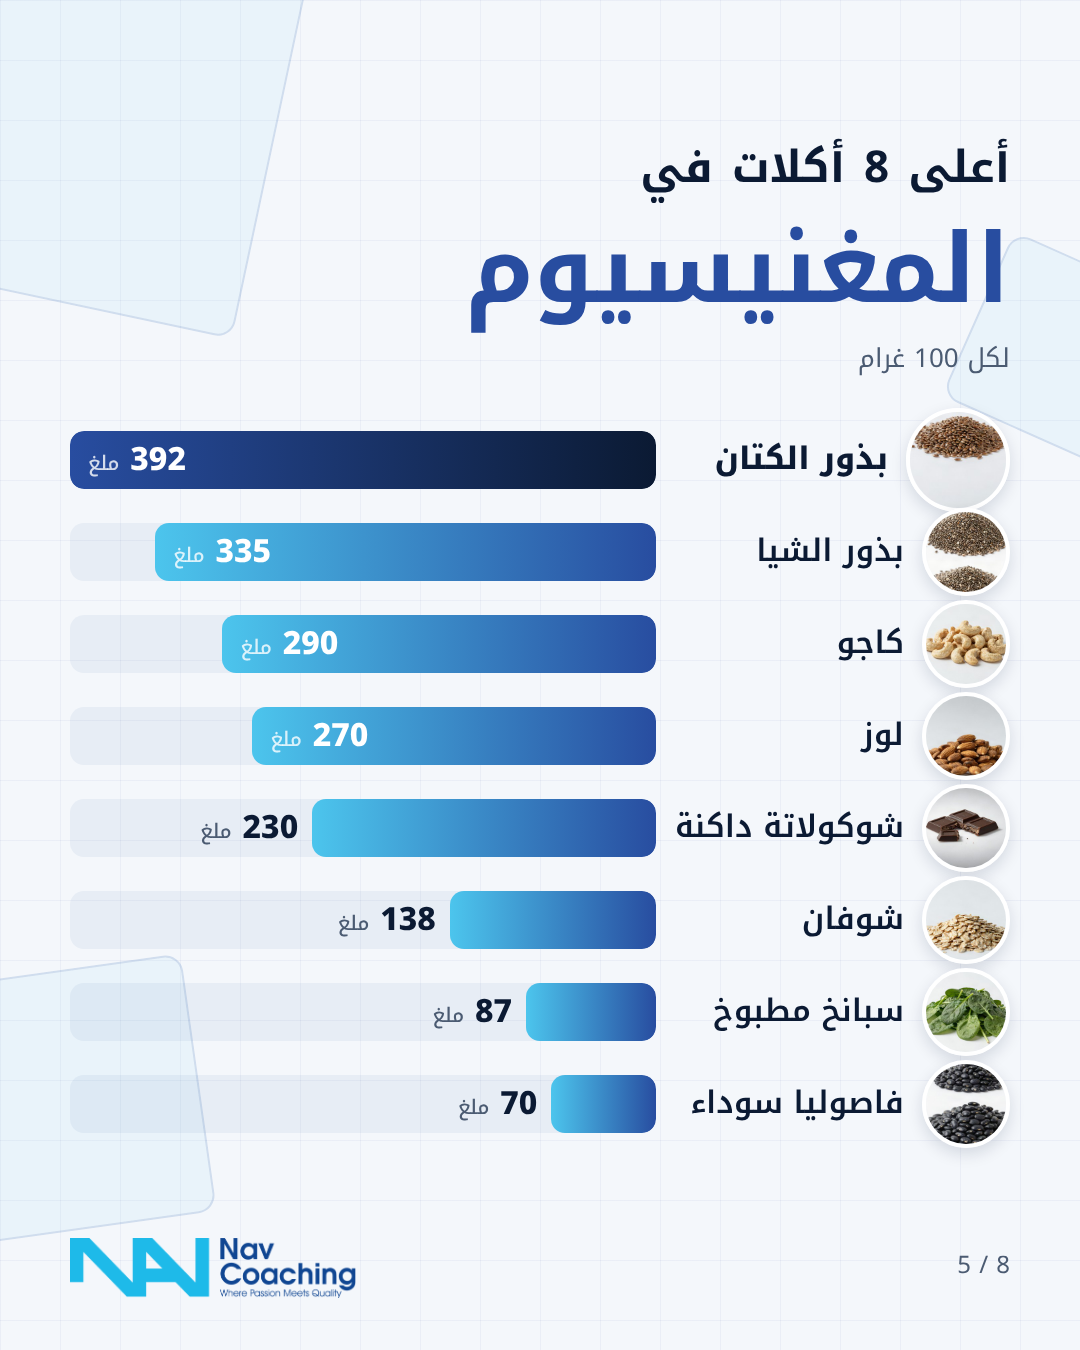
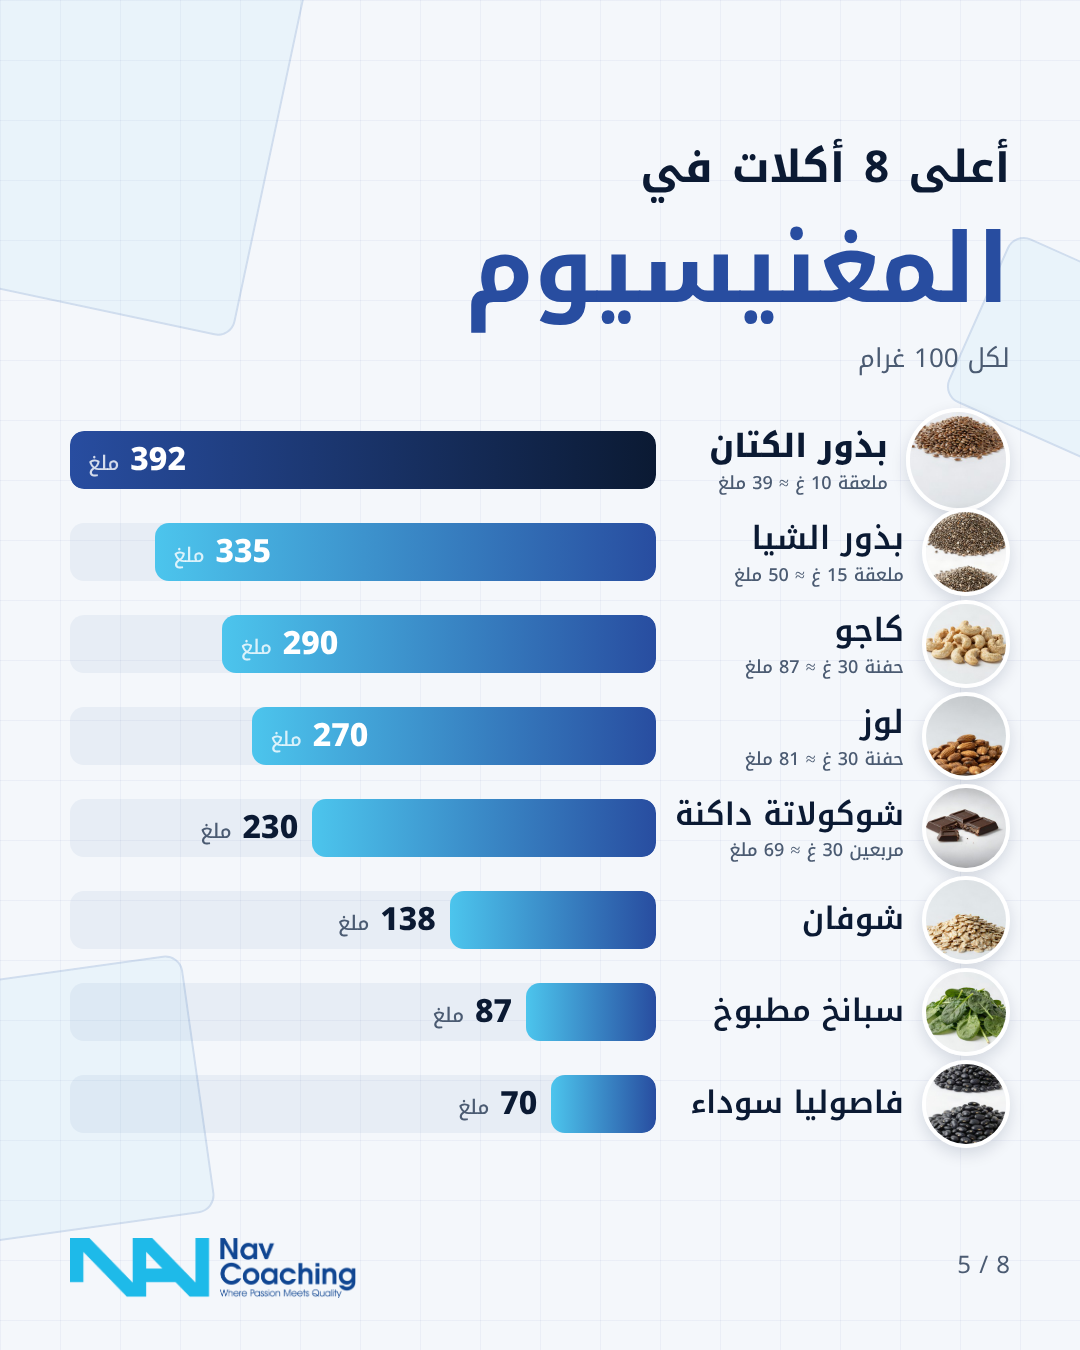
foods carousel: realistic serving lines for seeds, nuts, chocolate
Claude-Session: https://claude.ai/code/session_014K8VAaJoHdbEmLTmDkRNee

Changed region(s): [[0.6417, 0.3111, 0.8556, 0.4978], [0.6111, 0.5289, 0.8556, 0.6533], [0.7028, 0.4667, 0.7333, 0.4978]]

diff --git a/instagram/foods/slides.html b/instagram/foods/slides.html
@@ -27,21 +27,22 @@ h1 b{color:#284da0}
 .chips{display:flex;flex-wrap:wrap;gap:16px;margin-top:40px}.chips span{background:#fff;border:2px solid #284da033;border-radius:40px;padding:8px 26px;font-size:30px;line-height:1.6}
 .col{display:flex;flex-wrap:wrap;gap:22px;margin-top:60px}.col img{width:200px;height:200px;border-radius:50%;object-fit:cover;border:6px solid #fff;box-shadow:0 10px 26px #0b1a3322}
 .wrap:has(.note) .row{height:80px}.wrap:has(.note) .ph{width:78px;height:78px}
+.sv{display:block;font-size:18px;font-weight:500;color:#4b5b72;line-height:1.4;white-space:nowrap}
 </style></head><body><div id="root"></div><script>
 const D=[
 ['بروتين','أعلى الأطعمة <b>بالبروتين</b>','لكل 100 غرام • اللحوم والأسماك مطبوخة','غ',[['صدر دجاج',31],['تونة مطبوخة',30],['ديك رومي',29],['لحم بقر قليل الدهن',26],['سلمون',25],['روبيان',24],['توفو صلب',17],['بيض',13]]],
-['ألياف','أعلى الأطعمة <b>بالألياف</b>','لكل 100 غرام','غ',[['بذور الشيا',34],['بذور الكتان',27],['فشار بدون زيت',15],['لوز',13],['شوكولاتة داكنة',11],['شوفان',10],['عدس مطبوخ',8],['أفوكادو',7]]],
+['ألياف','أعلى الأطعمة <b>بالألياف</b>','لكل 100 غرام','غ',[['بذور الشيا',34,'ملعقة 15 غ ≈ 5 غ'],['بذور الكتان',27,'ملعقة 10 غ ≈ 2.7 غ'],['فشار بدون زيت',15],['لوز',13,'حفنة 30 غ ≈ 3.8 غ'],['شوكولاتة داكنة',11,'مربعين 30 غ ≈ 3.3 غ'],['شوفان',10],['عدس مطبوخ',8],['أفوكادو',7]]],
 ['فيتامين C','أعلى الأطعمة <b>بفيتامين C</b>','لكل 100 غرام','ملغ',[['جوافة',228],['فلفل أصفر',184],['فلفل أحمر',128],['كيوي',93],['بروكلي',89],['بابايا',61],['فراولة',59],['برتقال',53]]],
-['مغنيسيوم','أعلى الأطعمة <b>بالمغنيسيوم</b>','لكل 100 غرام','ملغ',[['بذور الكتان',392],['بذور الشيا',335],['كاجو',290],['لوز',270],['شوكولاتة داكنة',230],['شوفان',138],['سبانخ مطبوخ',87],['فاصوليا سوداء',70]]],
-['أوميغا 3','أعلى الأطعمة <b>بأوميغا 3</b>','لكل 100 غرام','غ',[['بذور الكتان',22.8],['بذور الشيا',17.8],['جوز',9.1],['ماكريل',2.7],['سلمون',2.3],['سردين',1.5]],'الجسم يحوّل أقل من 10% من أوميغا 3 النباتي (ALA) للنوع المفيد (EPA/DHA) — عشان كذا السمك أفضل مصدر.'],
-['حديد','أعلى الأطعمة <b>بالحديد</b>','لكل 100 غرام','ملغ',[['شوكولاتة داكنة',11.9],['بلح البحر',6.7],['كاجو',6.7],['كبدة بقر',6.5],['توفو صلب',5.4],['سبانخ مطبوخ',3.6],['عدس',3.3],['لحم بقر',2.6]],'⚠ الجسم يمتص حديد اللحوم والكبدة أكثر بـ 2 إلى 3 مرات من حديد النباتات. أضف ليمون أو فلفل للعدس والسبانخ يرفع الامتصاص.']];
+['مغنيسيوم','أعلى الأطعمة <b>بالمغنيسيوم</b>','لكل 100 غرام','ملغ',[['بذور الكتان',392,'ملعقة 10 غ ≈ 39 ملغ'],['بذور الشيا',335,'ملعقة 15 غ ≈ 50 ملغ'],['كاجو',290,'حفنة 30 غ ≈ 87 ملغ'],['لوز',270,'حفنة 30 غ ≈ 81 ملغ'],['شوكولاتة داكنة',230,'مربعين 30 غ ≈ 69 ملغ'],['شوفان',138],['سبانخ مطبوخ',87],['فاصوليا سوداء',70]]],
+['أوميغا 3','أعلى الأطعمة <b>بأوميغا 3</b>','لكل 100 غرام','غ',[['بذور الكتان',22.8,'ملعقة 10 غ ≈ 2.3 غ'],['بذور الشيا',17.8,'ملعقة 15 غ ≈ 2.7 غ'],['جوز',9.1],['ماكريل',2.7],['سلمون',2.3],['سردين',1.5]],'الجسم يحوّل أقل من 10% من أوميغا 3 النباتي (ALA) للنوع المفيد (EPA/DHA) — عشان كذا السمك أفضل مصدر.'],
+['حديد','أعلى الأطعمة <b>بالحديد</b>','لكل 100 غرام','ملغ',[['شوكولاتة داكنة',11.9,'مربعين 30 غ ≈ 3.6 ملغ'],['بلح البحر',6.7],['كاجو',6.7,'حفنة 30 غ ≈ 2 ملغ'],['كبدة بقر',6.5],['توفو صلب',5.4],['سبانخ مطبوخ',3.6],['عدس',3.3],['لحم بقر',2.6]],'⚠ الجسم يمتص حديد اللحوم والكبدة أكثر بـ 2 إلى 3 مرات من حديد النباتات. أضف ليمون أو فلفل للعدس والسبانخ يرفع الامتصاص.']];
 const IM={"صدر دجاج": "chicken", "تونة مطبوخة":"tuna","توفو صلب":"tofu","فشار بدون زيت":"popcorn","سبانخ مطبوخ":"spinach","تونة": "tuna", "ديك رومي": "turkey", "لحم بقر قليل الدهن": "beef", "سلمون": "salmon", "روبيان": "shrimp", "توفو": "tofu", "بيض": "eggs", "بذور الشيا": "chia", "بذور الكتان": "flax", "فشار": "popcorn", "لوز": "almonds", "شوكولاتة داكنة": "choc", "شوفان": "oats", "عدس مطبوخ": "lentils", "عدس": "lentils", "أفوكادو": "avocado", "جوافة": "guava", "فلفل أصفر": "ypep", "فلفل أحمر": "rpep", "كيوي": "kiwi", "بروكلي": "broccoli", "بابايا": "papaya", "فراولة": "straw", "برتقال": "orange", "كاجو": "cashews", "سبانخ": "spinach", "فاصوليا سوداء": "bbeans", "جوز": "walnuts", "ماكريل": "mackerel", "سردين": "sardines", "بلح البحر": "mussels", "كبدة بقر": "liver", "لحم بقر": "beef"};
 const bg=()=>`<div class="grid"></div><div class="sq" style="width:420px;height:420px;top:-120px;left:-140px"></div><div class="sq" style="width:260px;height:260px;bottom:120px;left:-60px;transform:rotate(-8deg)"></div><div class="sq" style="width:180px;height:180px;top:260px;right:-70px;transform:rotate(24deg)"></div>`;
 const foot=i=>`<img class="logo" src="../../brand/logo-color-hd.png"><div class="n">${i} / 8</div>`;
 let h=`<section class="s cover">${bg()}<div class="wrap"><h1>تاكل كثير…<br><b style="color:#284da0">وجسمك جوعان؟</b></h1><div class="sub">6 عناصر يحتاجها جسمك يوميًا — وأعلى الأكلات فيها بالأرقام</div><div class="chips">${D.map(d=>`<span>${d[0]}</span>`).join('')}</div><div class="col">${['chicken','salmon','avocado','straw','almonds','broccoli','kiwi','eggs'].map(k=>`<img src="img/${k}.jpg">`).join('')}</div></div>${foot(1)}</section>`;
 D.forEach((d,k)=>{const m=Math.max(...d[4].map(x=>x[1]));
-h+=`<section class="s">${bg()}<div class="wrap"><h1 class="hero"><span class="k">أعلى ${d[4].length} أكلات في</span><br>${d[1].match(/<b>ب(.*)<\/b>/)[1]}</h1><div class="sub">${d[2]}</div><div class="rows">${d[4].map(([n,v])=>{const w=Math.max(4,v/m*100),inn=w>62;return `<div class="row"><img class="ph" src="img/${IM[n]}.jpg"><div class="lb">${n}</div><div class="tr"><div class="br" style="width:${w}%"></div><div class="v${inn?' in':''}" style="${inn?`left:calc(${100-w}% + 18px)`:`right:calc(${w}% + 14px)`}">${v} <small>${d[3]}</small></div></div></div>`}).join('')}</div>${d[5]?`<div class="note">${d[5]}</div>`:''}</div>${foot(k+2)}</section>`});
+h+=`<section class="s">${bg()}<div class="wrap"><h1 class="hero"><span class="k">أعلى ${d[4].length} أكلات في</span><br>${d[1].match(/<b>ب(.*)<\/b>/)[1]}</h1><div class="sub">${d[2]}</div><div class="rows">${d[4].map(([n,v,sv])=>{const w=Math.max(4,v/m*100),inn=w>62;return `<div class="row"><img class="ph" src="img/${IM[n]}.jpg"><div class="lb">${n}${sv?`<span class="sv">${sv}</span>`:''}</div><div class="tr"><div class="br" style="width:${w}%"></div><div class="v${inn?' in':''}" style="${inn?`left:calc(${100-w}% + 18px)`:`right:calc(${w}% + 14px)`}">${v} <small>${d[3]}</small></div></div></div>`}).join('')}</div>${d[5]?`<div class="note">${d[5]}</div>`:''}</div>${foot(k+2)}</section>`});
 h+=`<section class="s cover">${bg()}<div class="wrap"><h1 style="font-size:68px">احفظ البوست<br><b style="color:#284da0">وارجع له قبل ما تطبخ</b></h1><div class="sub">تبي خطة أكل وتمارين على هدفك؟ اطلبها من موقعنا</div><div class="chips"><span>navcoaching.com</span></div><div class="col">${['guava','shrimp','chia','ypep','walnuts','spinach','lentils','choc'].map(k=>`<img src="img/${k}.jpg">`).join('')}</div></div>${foot(8)}</section>`;
 root.innerHTML=h;
-document.querySelectorAll('.lb').forEach(e=>{let f=32;while(e.scrollHeight>52&&f>22){e.style.fontSize=--f+'px'}});
+document.querySelectorAll('.lb').forEach(e=>{let f=32;while(e.scrollHeight>(e.querySelector('.sv')?80:52)&&f>22){e.style.fontSize=--f+'px'}});
 </script></body></html>
